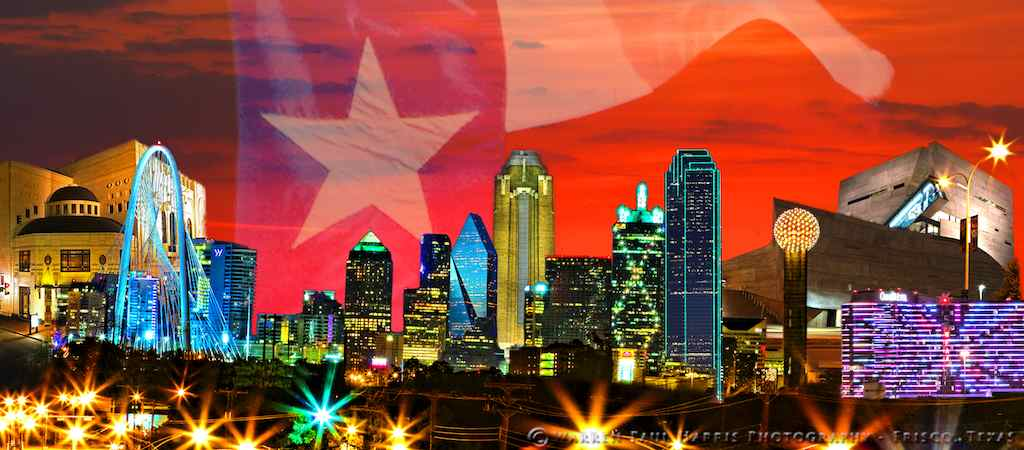
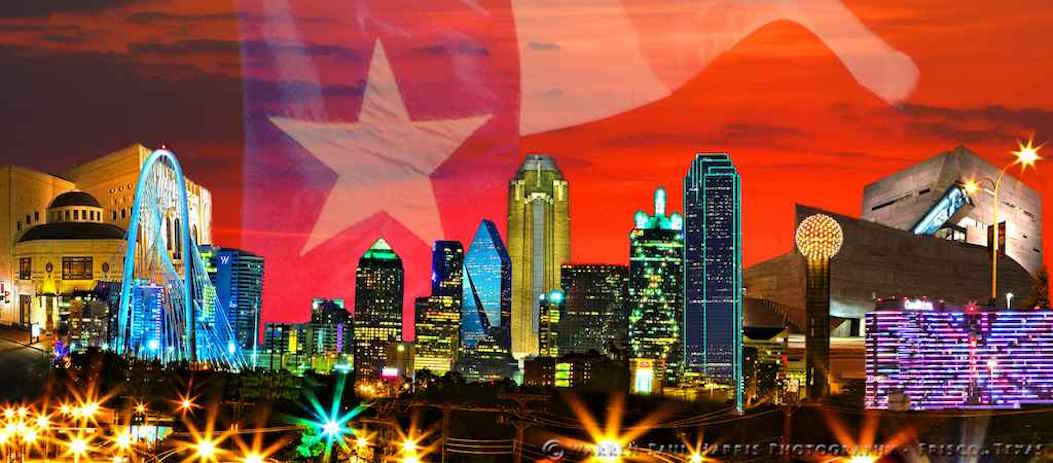
adding changes to personal site

diff --git a/public/personal-site.html b/public/personal-site.html
@@ -34,7 +34,6 @@
     <!-- Collect the nav links, forms, and other content for toggling -->
     <div class="collapse navbar-collapse" id="bs-example-navbar-collapse-1">
       <ul class="nav navbar-nav">
-        <li><a href="#">Who am I?</a></li>
         <li><a href="#">Portfolio</a></li>
         <li class="dropdown">
           <a href="#" class="dropdown-toggle" data-toggle="dropdown" role="button" aria-haspopup="true" aria-expanded="false">Projects<span class="caret"></span></a> 
@@ -76,32 +75,30 @@
       <h1 style="text-align: center">Introduction</h1>
     <hr>
       <div class='row'>
-          <p class="col-md-5">Who am I? I'm Chris Davila. But that's not the question I'm asking. Am I a journalist? A multimedia news reporter? A salesman? At one point in time, I was each of those occupations. My newest endeavor has led me down a different path where I hope to one day incorporate all the knowledge and experience I've gained. I'm an aspiring software developer. I have MANY passions. I believe being a developer will allow me to join those passions in a way I never imagined. </p>
+          <p class="col-md-5">Hello and welcome to my site! Who am I? I'm Chris Davila. I'm an aspiring software developer who recently left the media sales industry to chase a dream. It was a tough decision to make but saying "What if?" is not something I ever plan to say when I'm an old man. </p>
         
           <img class='col-md-2' src="img/pic2.jpg" style="border-radius: 50%;padding:1px;border:thin solid black; height: 7%; width: 15%; display: right">
         
 
-          <div class='col-md-5'>Lorem ipsum dolor sit amet, consectetur adipisicing elit, sed do eiusmod
-          tempor incididunt ut labore et dolore magna aliqua. Ut enim ad minim veniam,
-          quis nostrud exercitation ullamco laboris nisi ut aliquip ex ea commodo
-          consequat. Duis aute irure dolor.
+          <div class='col-md-5'>I have MANY passions. I've been a journalist, a multimedia news reporter, and as I mentioned before, a TV advertising salesman. My biggest passions are probably sports and anything and everything muscle cars! So why be a developer? Because I plan to join those passions in a way I never imagined. <br>Stand by for AWESOMENESS! 
           </div>
 
       </div>
 
       <div class='row'>
-          <p class="col-md-6">Lorem ipsum dolor sit amet, consectetur adipisicing elit, sed do eiusmod
+<!--           <p class="col-md-6">Lorem ipsum dolor sit amet, consectetur adipisicing elit, sed do eiusmod
           tempor incididunt ut labore et dolore magna aliqua. Ut enim ad minim veniam,
           quis nostrud exercitation ullamco laboris nisi ut aliquip ex ea commodo
-          consequat. Duis aute irure dolor.</p>
+          consequat. Duis aute irure dolor.</p> -->
 
-          <p class="col-md-6">Lorem ipsum dolor sit amet, consectetur adipisicing elit, sed do eiusmod
+<!--           <p class="col-md-6">Lorem ipsum dolor sit amet, consectetur adipisicing elit, sed do eiusmod
               tempor incididunt ut labore et dolore magna aliqua. Ut enim ad minim veniam,
               quis nostrud exercitation ullamco laboris nisi ut aliquip ex ea commodo
-              consequat. Duis aute irure dolor.</p> 
+              consequat. Duis aute irure dolor.</p>  -->
 
       </div>
-    </div>       
+    </div>
+<br>       
 </section>
 
 <!-- end first section -->
@@ -116,7 +113,7 @@
               <div class='col-md-offset-3 col-md-3'>
                 <ul id="list" style="font-size: 24px">
                   <i class="fa fa-check" id='check' aria-hidden="true"> HTML5</i><br>
-                  <i class="fa fa-check" id='check' aria-hidden="true"> CSS</i><br>
+                  <i class="fa fa-check" id='check' aria-hidden="true"> CSS6</i><br>
                   <i class="fa fa-check" id='check' aria-hidden="true"> Javascript</i>
                 </ul>
               </div>
@@ -130,6 +127,7 @@
           </div>
         </div>
       </section>
+<br>
 <!-- end second section -->
   <div class="parallax-container" data-parallax="scroll" data-bleed="10" data-speed="0.2" data-image-src="img/field.jpg" data-natural-width="1400" data-natural-height="1400"></div>
 
@@ -141,17 +139,17 @@
     <hr>
           <div class="col-md-4" id='projects' style='font-size: 24px'>
               <ul>
-              <a class="fancy" href="http://simplesimon.dev/simplesimon.html" target="_blank">Simple Simpsons: <br>A Memory Game.<br><span style='font-size: 20px'>Built with HTML5, CSS, JQuery.
-              </ul><img src="img/screen_shot.png" style='height: 65%; width: 65%' alt="Simple Simon"></a>
+              <a class="fancy" href="http://simplesimon.dev/simplesimon.html" target="_blank">Simple Simpsons: <br>A Memory Game.<br><span style='font-size: 20px;'>Built w/ HTML5, CSS6, & JQuery.
+              </ul><img src="img/screen_shot.png" style='height: 50%; width: 55%' alt="Simple Simon"></a>
           </div>
           <div class="col-md-4" style='font-size: 24px'>
               <ul>
-              <a class="fancy" href="http://codeup.dev/calculator.html" target="_blank">A Simple, Functioning Calculator<br><span style='font-size: 20px'>Built with HTML5, CSS.
+              <a class="fancy" href="http://codeup.dev/calculator.html" target="_blank">A Simple, Functioning Calculator<br><span style='font-size: 20px'>Built with HTML5 & CSS6.
               </ul><img src="img/calculator.png" style='height: 100%; width: 100%' alt="Calculator"></a>
           </div>
           <div class="col-md-4" style='font-size: 24px'>
               <ul>
-              <a class="fancy" href="http://codeup.dev/weather_map.html" target="_blank">Weather Map<br><span style='font-size: 20px'>Built with HTML5, CSS and JQuery.
+              <a class="fancy" href="http://codeup.dev/weather_map.html" target="_blank">Weather Map<br><span style='font-size: 20px'>Built with HTML5, CSS6 & JQuery.
               </ul><img src="img/weather_map.png" style='height: 100%; width: 100%' alt="Weather Map"></a>
           </div>
       </div>
@@ -161,13 +159,16 @@
         <br>
 <!--     <div class="parallax-container" data-parallax="scroll" data-bleed="10" data-image-src="img/view.jpg" data-natural-width="1400" data-natural-height="900" style="height: 501px;"></div> -->
 
-    <div class="parallax-container" data-parallax="scroll" data-bleed="10" data-image-src="img/america.jpg" data-natural-width="750" data-natural-height="763"></div>
+
+    <div class="parallax-container" data-parallax="scroll" data-bleed="10" data-image-src="img/texas_flag.jpg" data-natural-width="1279" data-natural-height="853"></div>
+    <div class="parallax-container" data-parallax="scroll" data-bleed="10" data-image-src="img/dallas_skyline.jpg" data-natural-width="1053" data-natural-height="463">Hometown</div>
+    <div class="parallax-container" data-parallax="scroll" data-bleed="10" data-image-src="img/challenger3.jpg" data-natural-width="1600" data-natural-height="544">Hobbies</div>
 
  <section> 
     <div class="container">
       <div class='row'>
         <h1 class='text-center'>Contact</h1>
-        <h4 class='text-center'>Reach Me</h4>
+        <h4 class='text-center'>Say hey?</h4>
     <hr> 
           <p class='text-center'>Want to know more? Have questions? Feel free to fill out the form below and I will get back to you ASAP!</p>
       </div>

diff --git a/public/css/personal_site_layout.css b/public/css/personal_site_layout.css
@@ -17,6 +17,9 @@ h1, h4, {
 
 .container-fluid {
 	background-color: #000;
+    position: relative;
+    max-width: none;
+    height: 100%;
 }
 
 .navbar-default .navbar-brand {
@@ -79,3 +82,4 @@ li {
 #check, .fancy {
     color: #2ACC14;
 }
+
